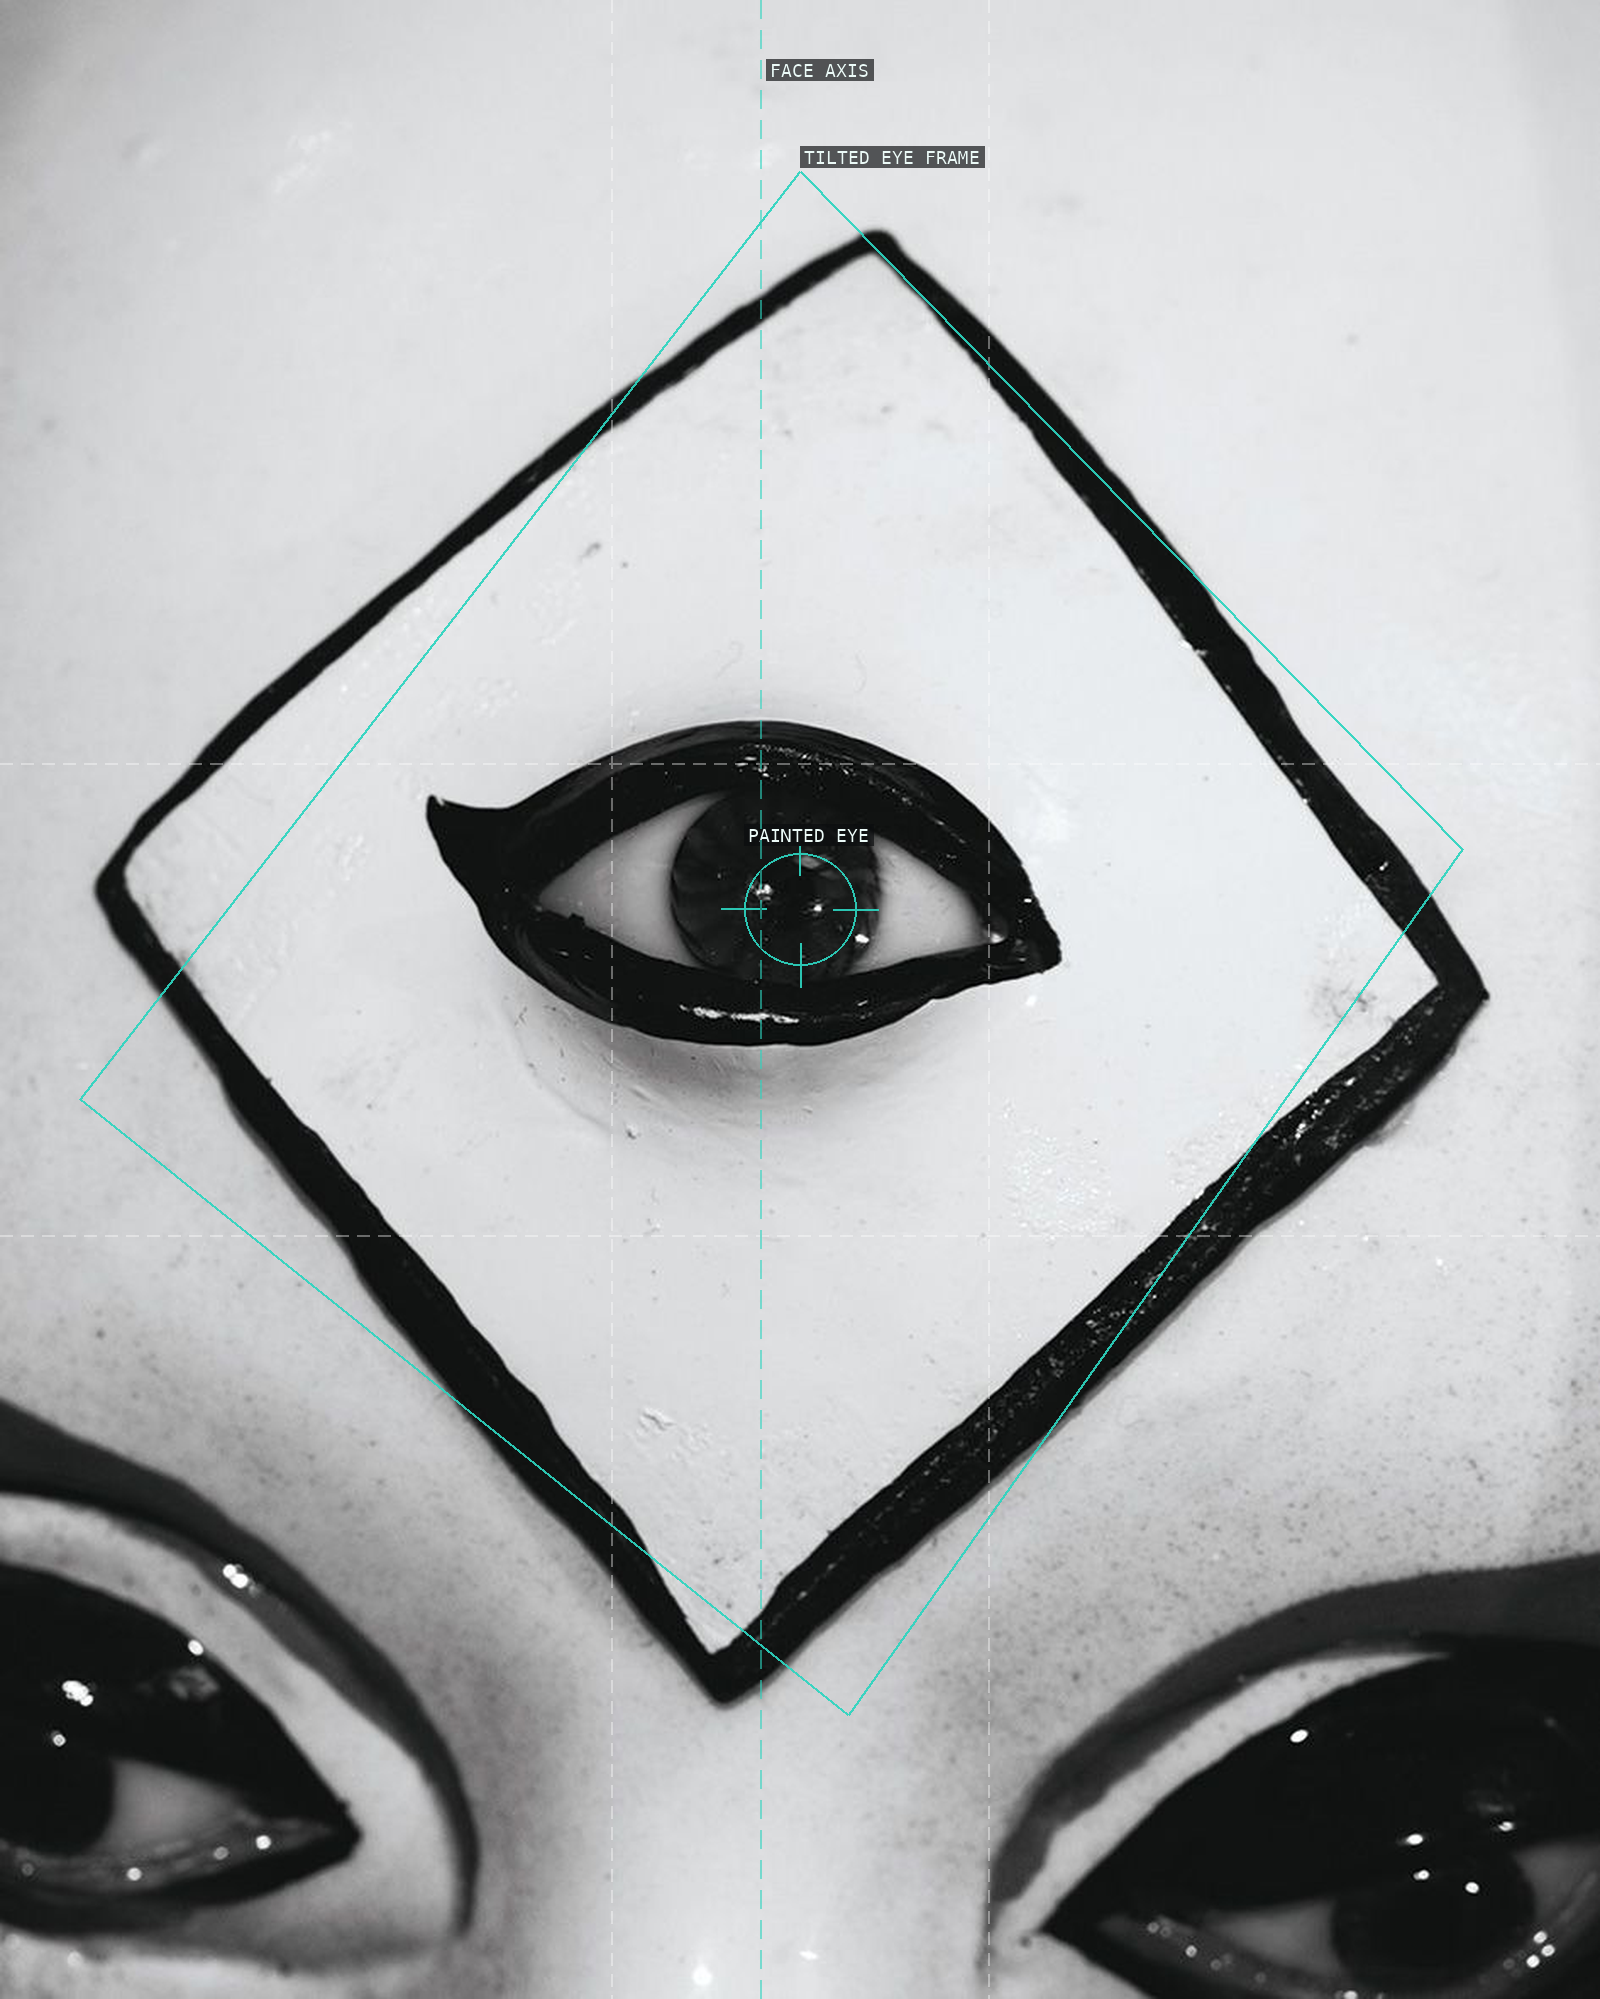
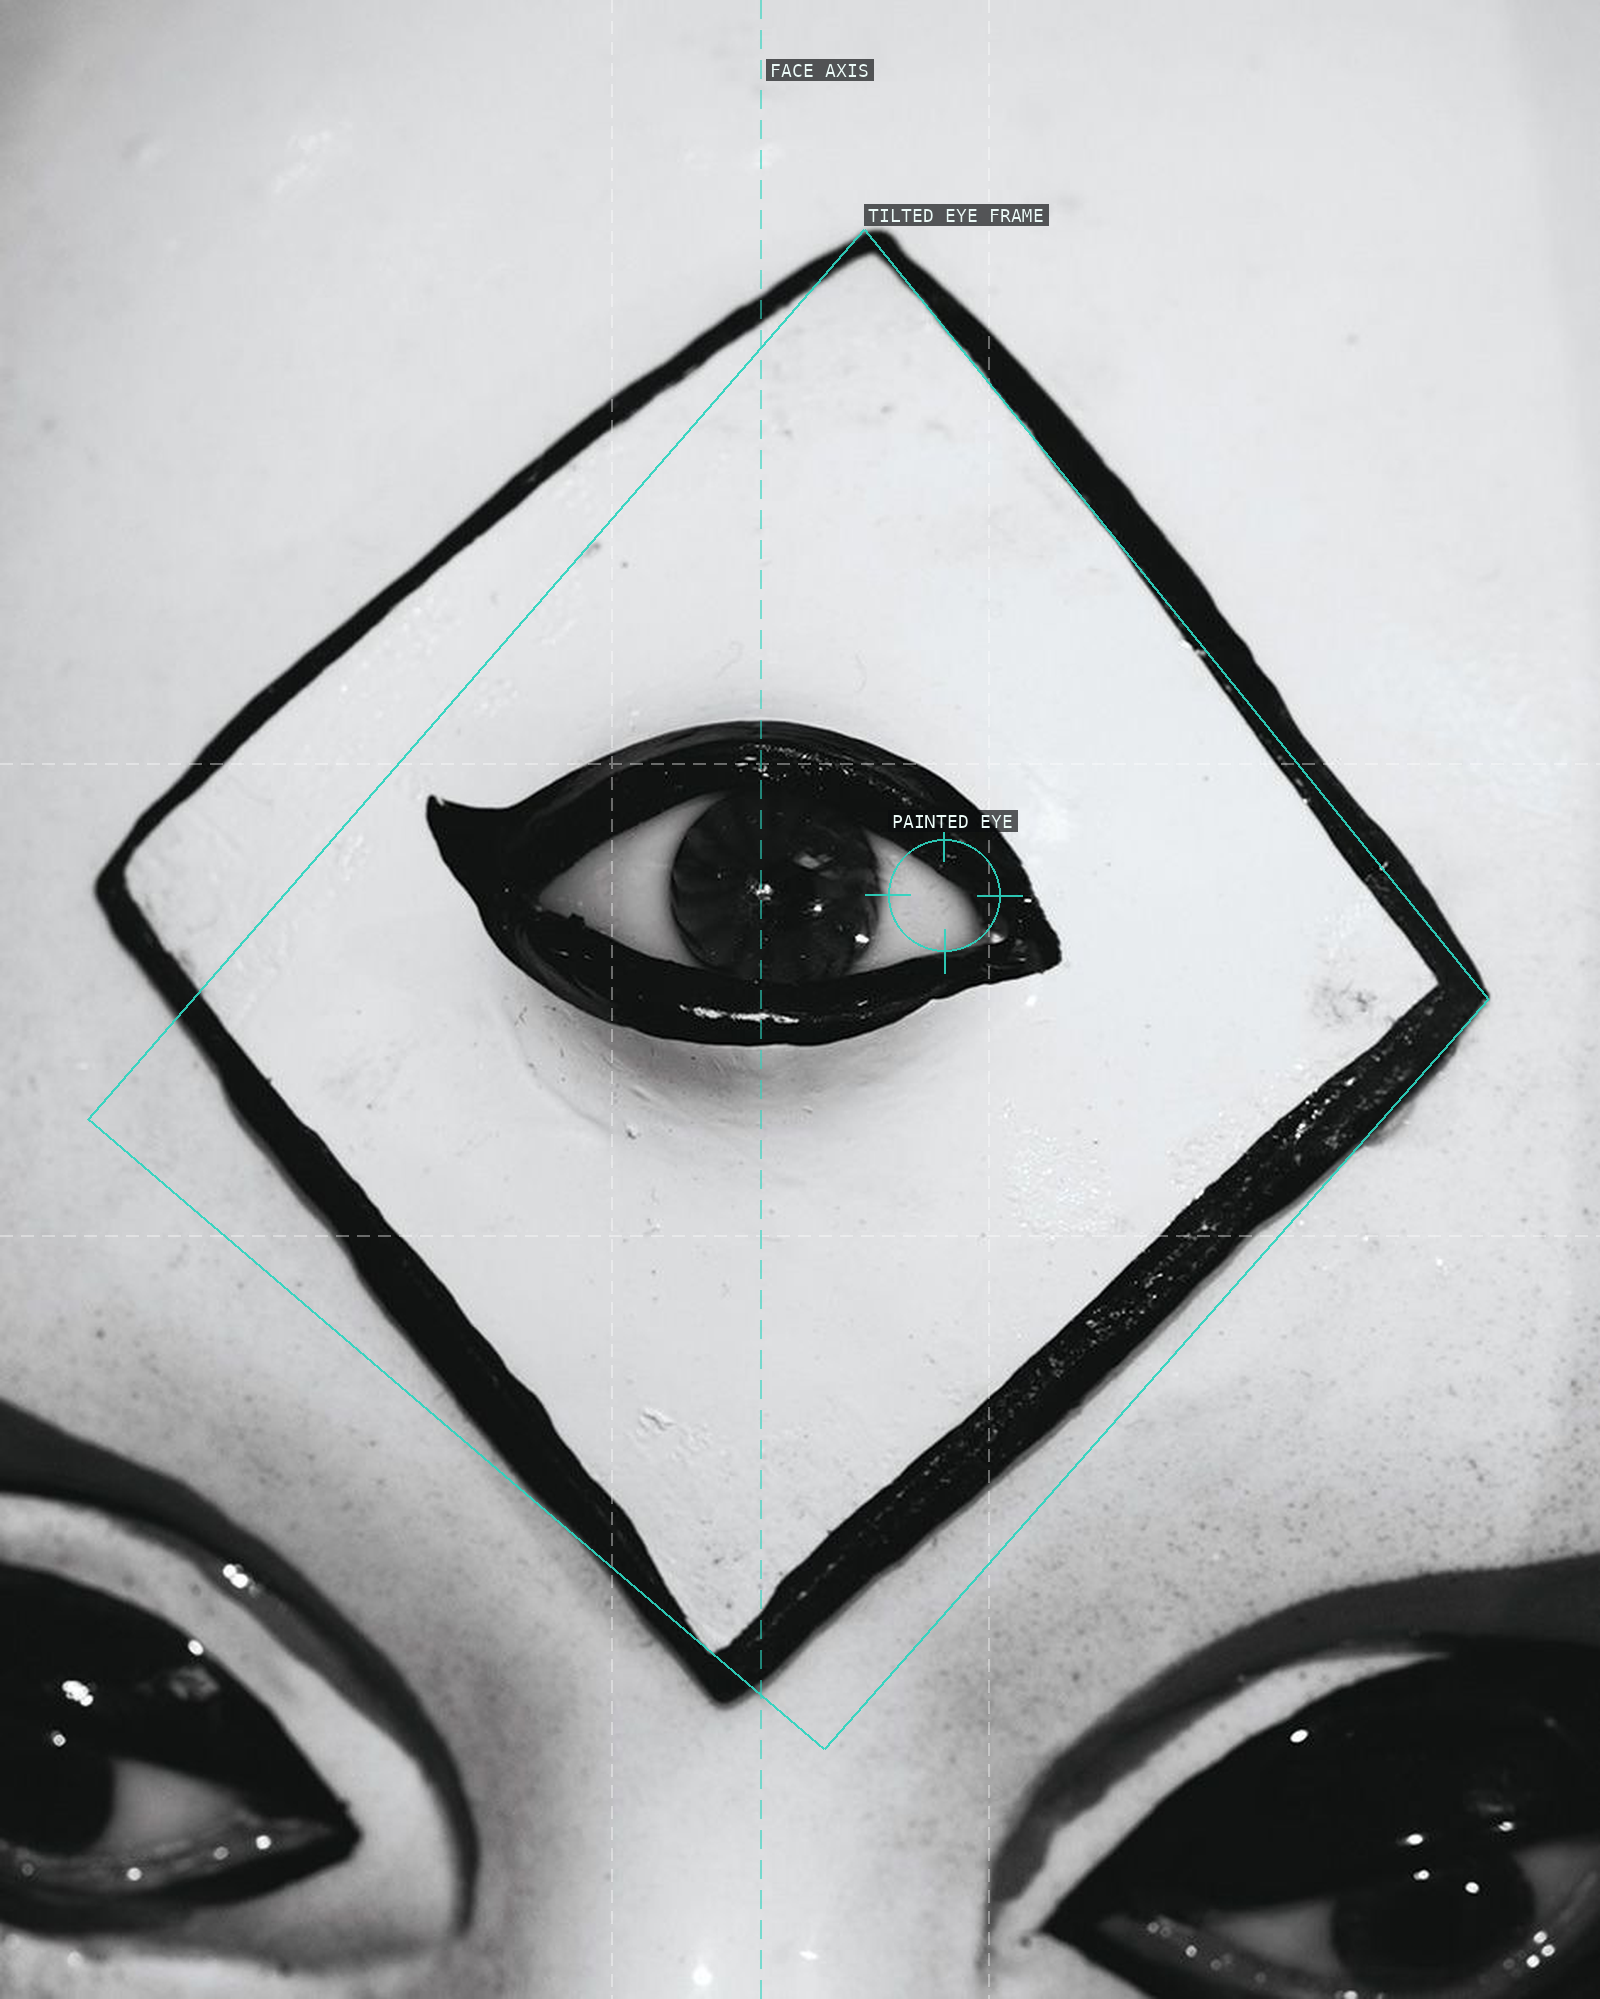
resolve critique: carlijn-jacobs

diff --git a/content/carlijn-jacobs/critique.md b/content/carlijn-jacobs/critique.md
@@ -1,4 +1,4 @@
-verdict: revise
+verdict: resolved
 
 ## Critique round — 2026-08-01
 
@@ -86,3 +86,24 @@ copies remain byte-identical.
 
 - The current deterministic scores pass for all twelve overlays (ten at 100; `10-eyes-05` at 92; `12-cherry-paris-2022` at 91.9). The three blocking defects above are semantic/interpretive and therefore are not caught by those geometric scores.
 - The twelve source entries remain traceable to the stated Vogue feature and public display renditions, retain individual four-factor fair-use rationales and credits, and match the supplied images. The manifest contains no usable camera EXIF; no settings-honesty issue was found.
+
+## Builder resolution — 2026-08-01
+
+Resolved all three required items. Re-analyzed, rendered, visually inspected,
+and scored the affected overlays: `02-sleeping-beauty-paris-2023` (100),
+`06-eyes-09` (100), and `10-eyes-05` (100). The false bed-edge line is
+removed; the upper-pin path now follows the visible black pin; and the tilted
+eye-frame path now tracks all four edges of the painted diamond. The chapter
+now describes the bed-stage without the removed edge and identifies the upper
+black pin precisely.
+
+Re-verified the complete critique history: the first **2026-08-01** round and
+its resolution (six required fixes), the second **2026-08-01** round and its
+resolution (three required fixes), and the third **2026-08-01** round resolved
+above. In particular, the shoe band replaces the false water claim; the *Eyes
+03* pupil and stitched seam land correctly; *Eyes 08* follows the pearl string;
+the painted-face and cherry/source corrections remain accurate; the *Eyes 09*
+pupil is not a vanishing point; and the cherry stem stays on the photographed
+curve. All twelve current overlay scores meet the threshold (91.9–100) and had
+a clean visual pass. `scripts/check.sh` passed before this verdict was set, and
+the rendered and content chapter copies are byte-identical.
